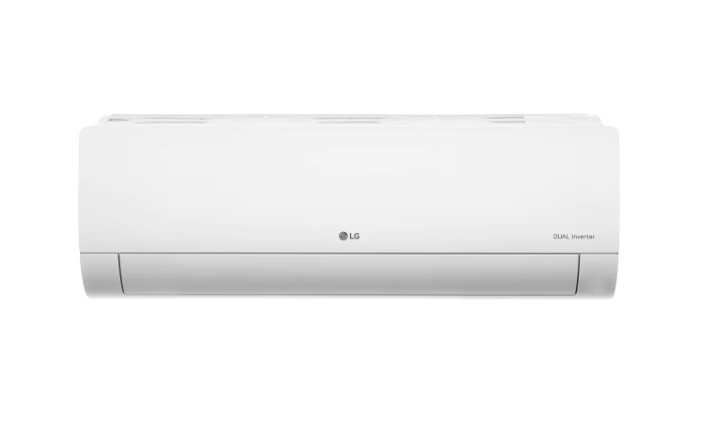
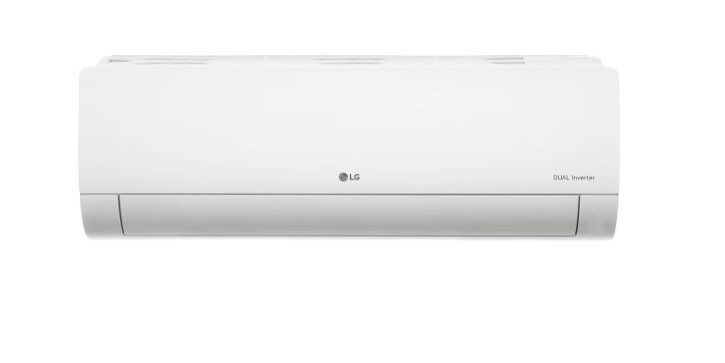
assignment submitted

diff --git a/Assignment4/index.html b/Assignment4/index.html
@@ -11,7 +11,7 @@
 
 <body>
     <div id="container">
-        <div id="navigation-bar">
+        <header>
             <h1>SHOP EASY</h1>
             <input type="text" name="searchbox" id="searchbox" placeholder="Search here">
         </div>
@@ -25,7 +25,7 @@
                         <h2 class="product-name">Sony Television </h2>
                         <ul>
                             <li>65 inch Ultra HD (4K) LED Smart Google TV</li>
-                            <li>Supported Apps: Netflix|Prime Video|Disney+Hotstar|Youtube</li>
+                            <li>Supported Apps: Netflix | Prime Video | Disney+Hotstar | Youtube</li>
                             <li>Colour: Black</li>
                         </ul>
                         <input type="button" value="Add to cart" id="tv-add-button" class="add-to-cart">
@@ -53,7 +53,7 @@
                 </div>
                 <div id="laptop" class="product">
                     <div class="image-container">
-                        <img src="./images/laptop.jpg" alt="">
+                        <img src="./images/lap.jpg" alt="">
                     </div>
                     <div class="product-details">
                         <h2 class="product-name">HP 15 Laptop</h2>
@@ -87,7 +87,7 @@
                 </div>
                 <div id="ac" class="product">
                     <div class="image-container">
-                        <img src="./images/ac.jpg" alt="">
+                        <img src="./images/ac - Copy.jpg" alt="">
                     </div>
                     <div class="product-details">
                         <h2 class="product-name">LG AC</h2>

diff --git a/Assignment4/js/script.js b/Assignment4/js/script.js
@@ -2,12 +2,12 @@
 $(document).ready(function () {
 
   $("#searchbox").keyup(function () {
-    let inputValue = $(this).val();
+    let inputValue = $(this).val().toLowerCase();
     var allHidden = true;
     $("p").empty();
     $(".product").each(function () {
-      
-      let productName = $(this).find(".product-details .product-name").text();
+
+      let productName = $(this).find(".product-details .product-name").text().toLowerCase();
 
       if (productName.includes(inputValue)) {
         $(this).show();
@@ -19,8 +19,8 @@ $(document).ready(function () {
       }
     });
     if (allHidden) {
-      $("#products-container").append( "<p>No products to show.</p>" )
-    } 
+      $("#products-container").append("<p>No products to show.</p>")
+    }
   })
 
 
@@ -43,7 +43,7 @@ $(document).ready(function () {
     $("#cart-body").empty();
 
     $.each(cartItems, function (index, item) {
-      
+
       let cartElement = $("<div>");
       $("#cart-body").append(cartElement);
       cartElement.append(item.title);
@@ -55,10 +55,11 @@ $(document).ready(function () {
         item.itemquantity = item.itemquantity - 1;
         if (item.itemquantity < 1) {
           cartElement.remove();
-          item.itemquantity = 1;
+          cartItems = cartItems.filter(obj => obj.title !== item.title);
         } else {
           quantityContainer.text(item.itemquantity);
         }
+        console.log(cartElement.text());
       });
 
       let quantityContainer = $("<span>", {

diff --git a/Assignment4/css/stylesheet.css b/Assignment4/css/stylesheet.css
@@ -2,13 +2,31 @@ body{
     margin: 0;
 }
 
+header{
+position: fixed;
+background-color: rgb(92, 92, 92);
+width: 100%;
+height: 7vh;
+}
+
 h1 {
     display: inline;
+    color: rgb(238, 239, 225);
+    font-size: 4vh;
+}
+
+#searchbox{
+    background-color: rgb(238, 239, 225);
+    height: 25px;
+    width: 500px;
+    border: none;
 }
 
 #shopping-site-body {
     display: grid;
     grid-template-columns: 2.5fr 1fr;
+    padding-top: 45px;
+    height: 93vh;
 }
 
 #products-container {
@@ -36,6 +54,7 @@ img{
 
 ul {
     list-style-type: disc;
+    margin-top: 0;
   }
 
 .product-details{
@@ -47,3 +66,15 @@ ul {
     display: flex; 
     justify-content: center; 
   }
+
+#cart-heading,#cart-body{
+    position: fixed;
+}  
+
+#cart-heading{
+    padding-top: 2vh;
+}
+
+#cart-body{
+    padding-top: 7vh;
+}
